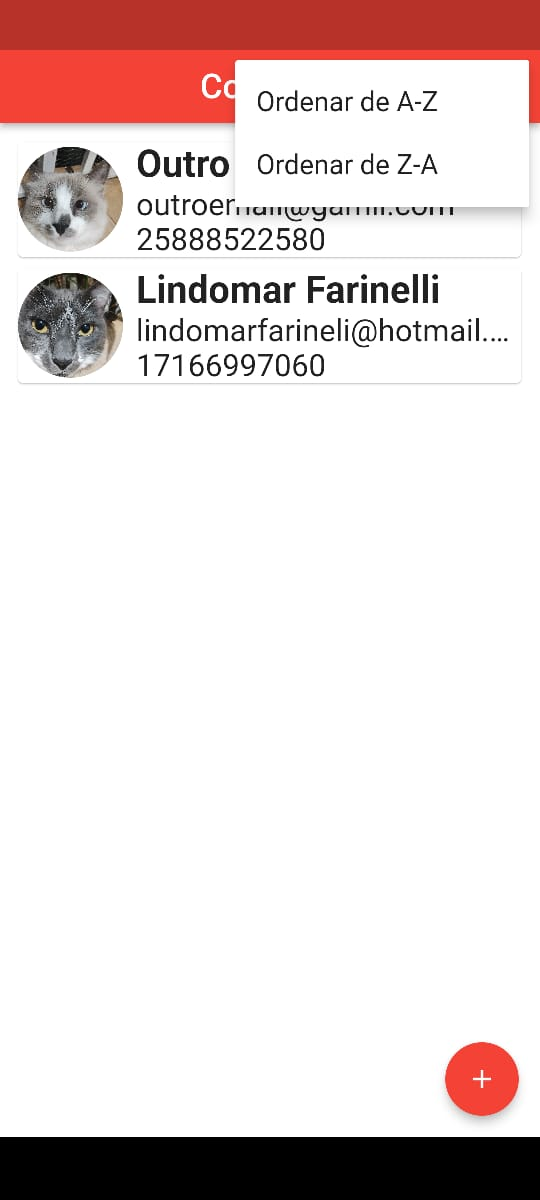
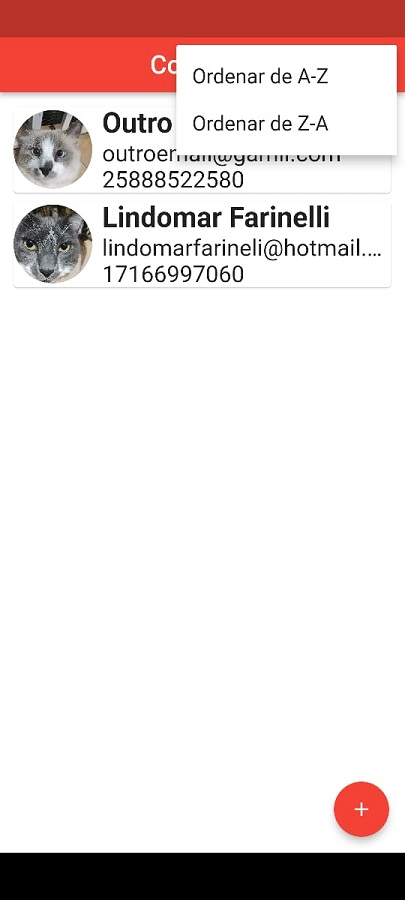
corrigindo a imagem2

diff --git a/README.md b/README.md
@@ -12,7 +12,7 @@
 
 
 
-<img src = "outros/img/telaInicial.jpeg" alt="**Image**" style="zoom:25%" >
+<img src = "outros/img/telaInicial.jpeg"  >
 
 
 
@@ -20,7 +20,7 @@
 
 Agora a alterando a posição da lista:
 
-<img src = "outros/img/alterandoPos.jpeg" alt="**Image**" style="zoom:25%">
+<img src = "outros/img/alterandoPos.jpeg" >
 
 
 
